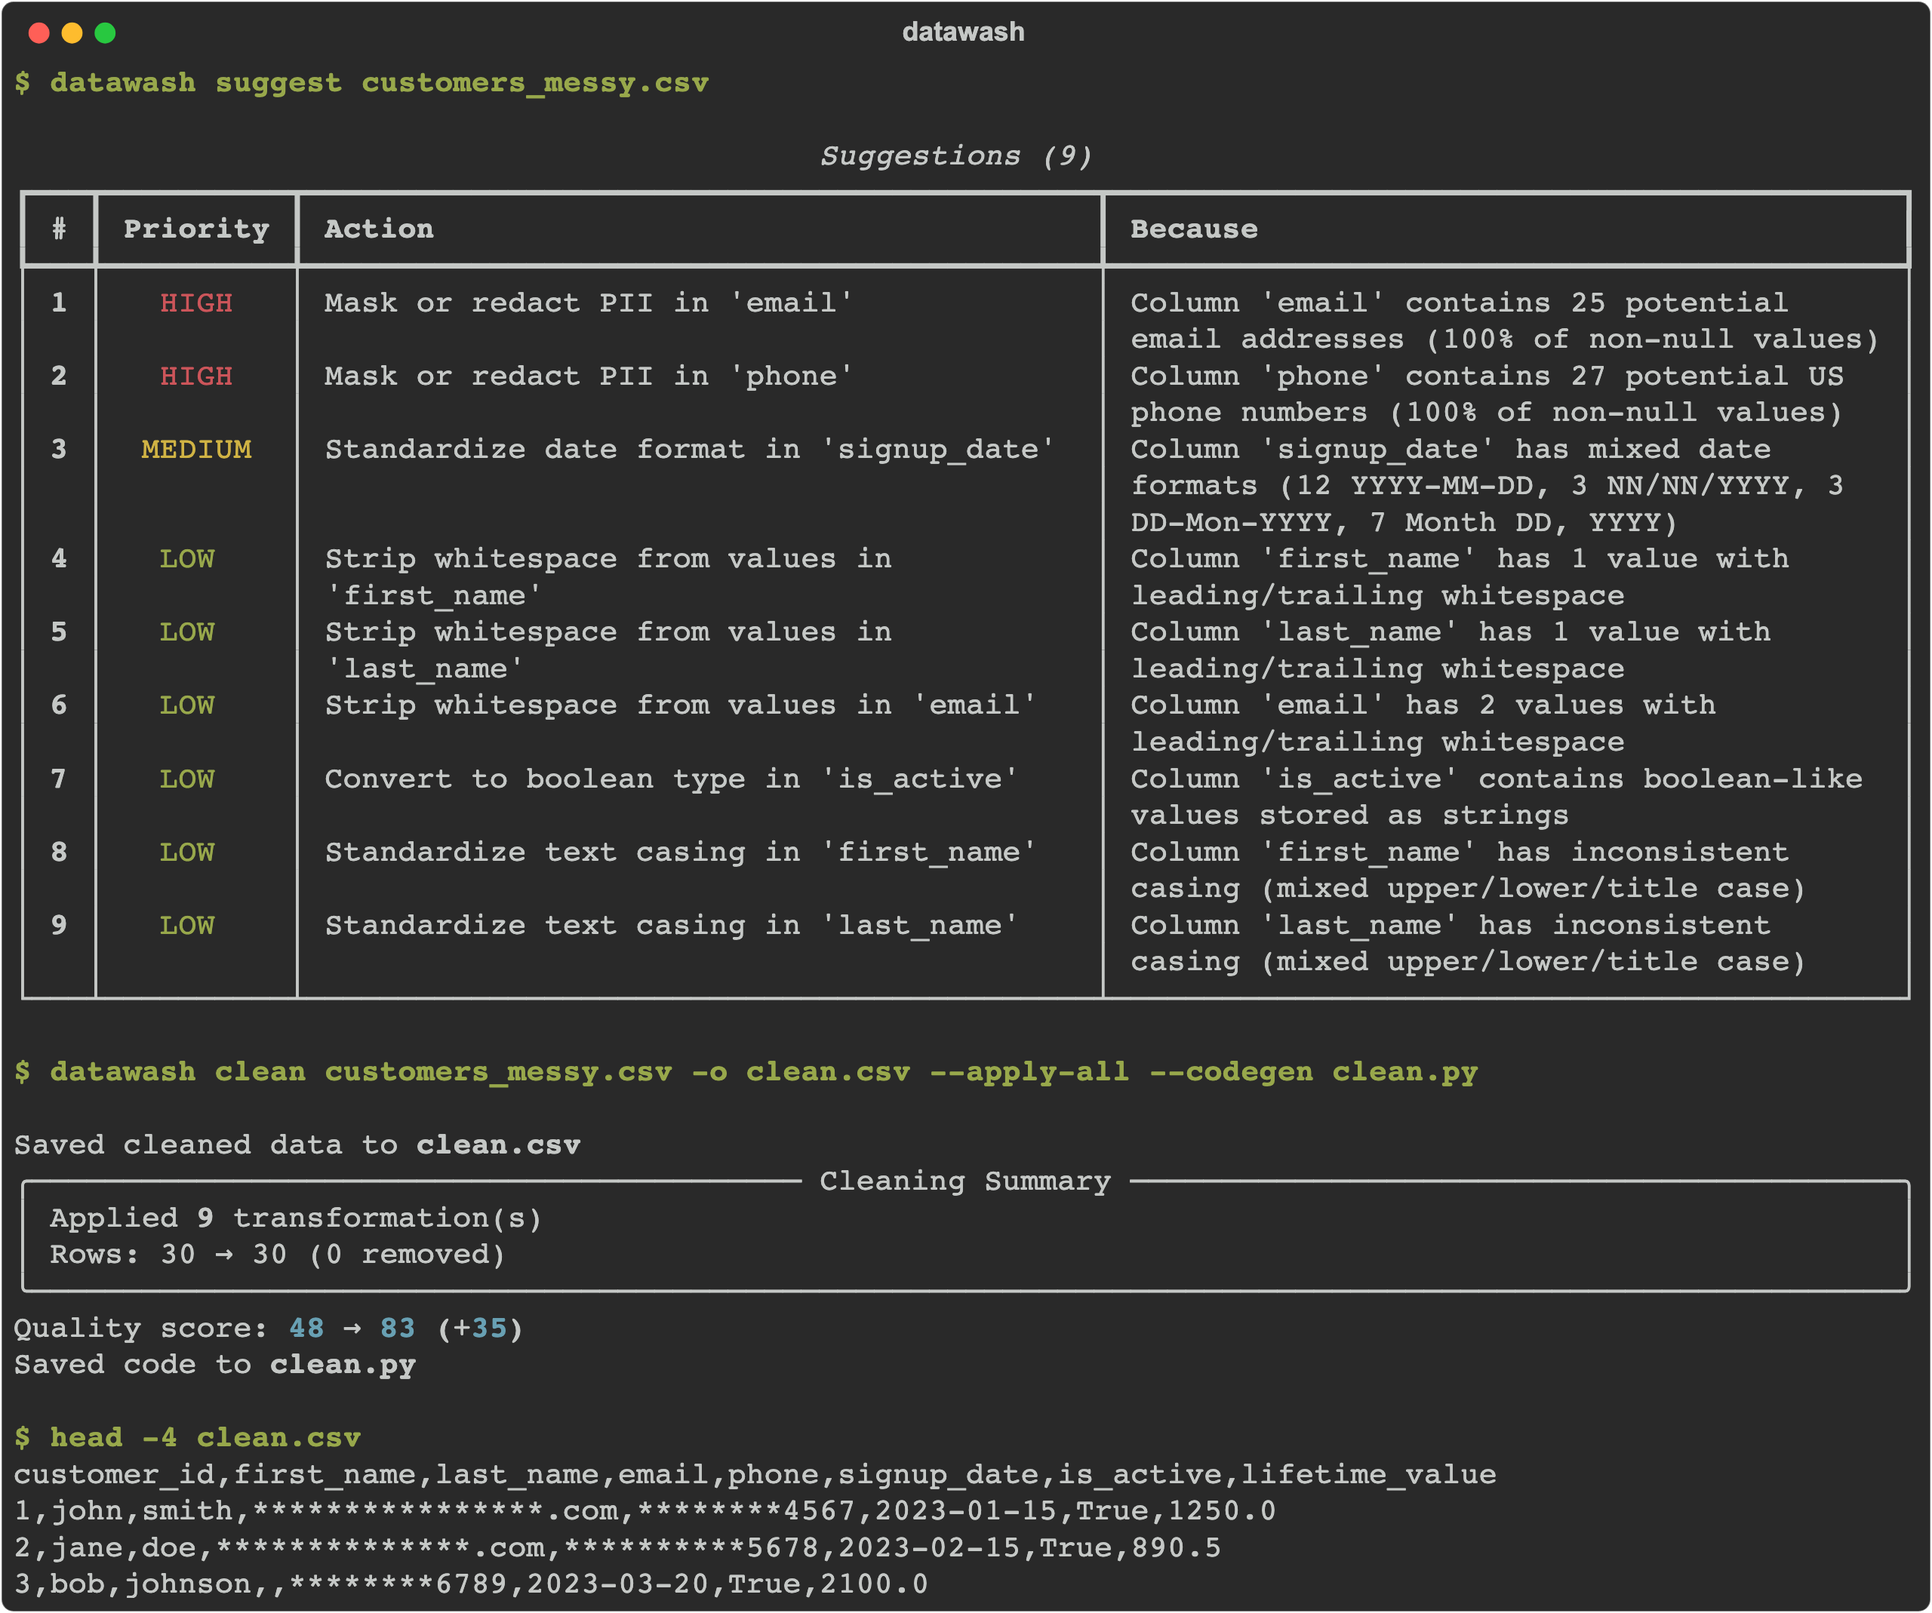
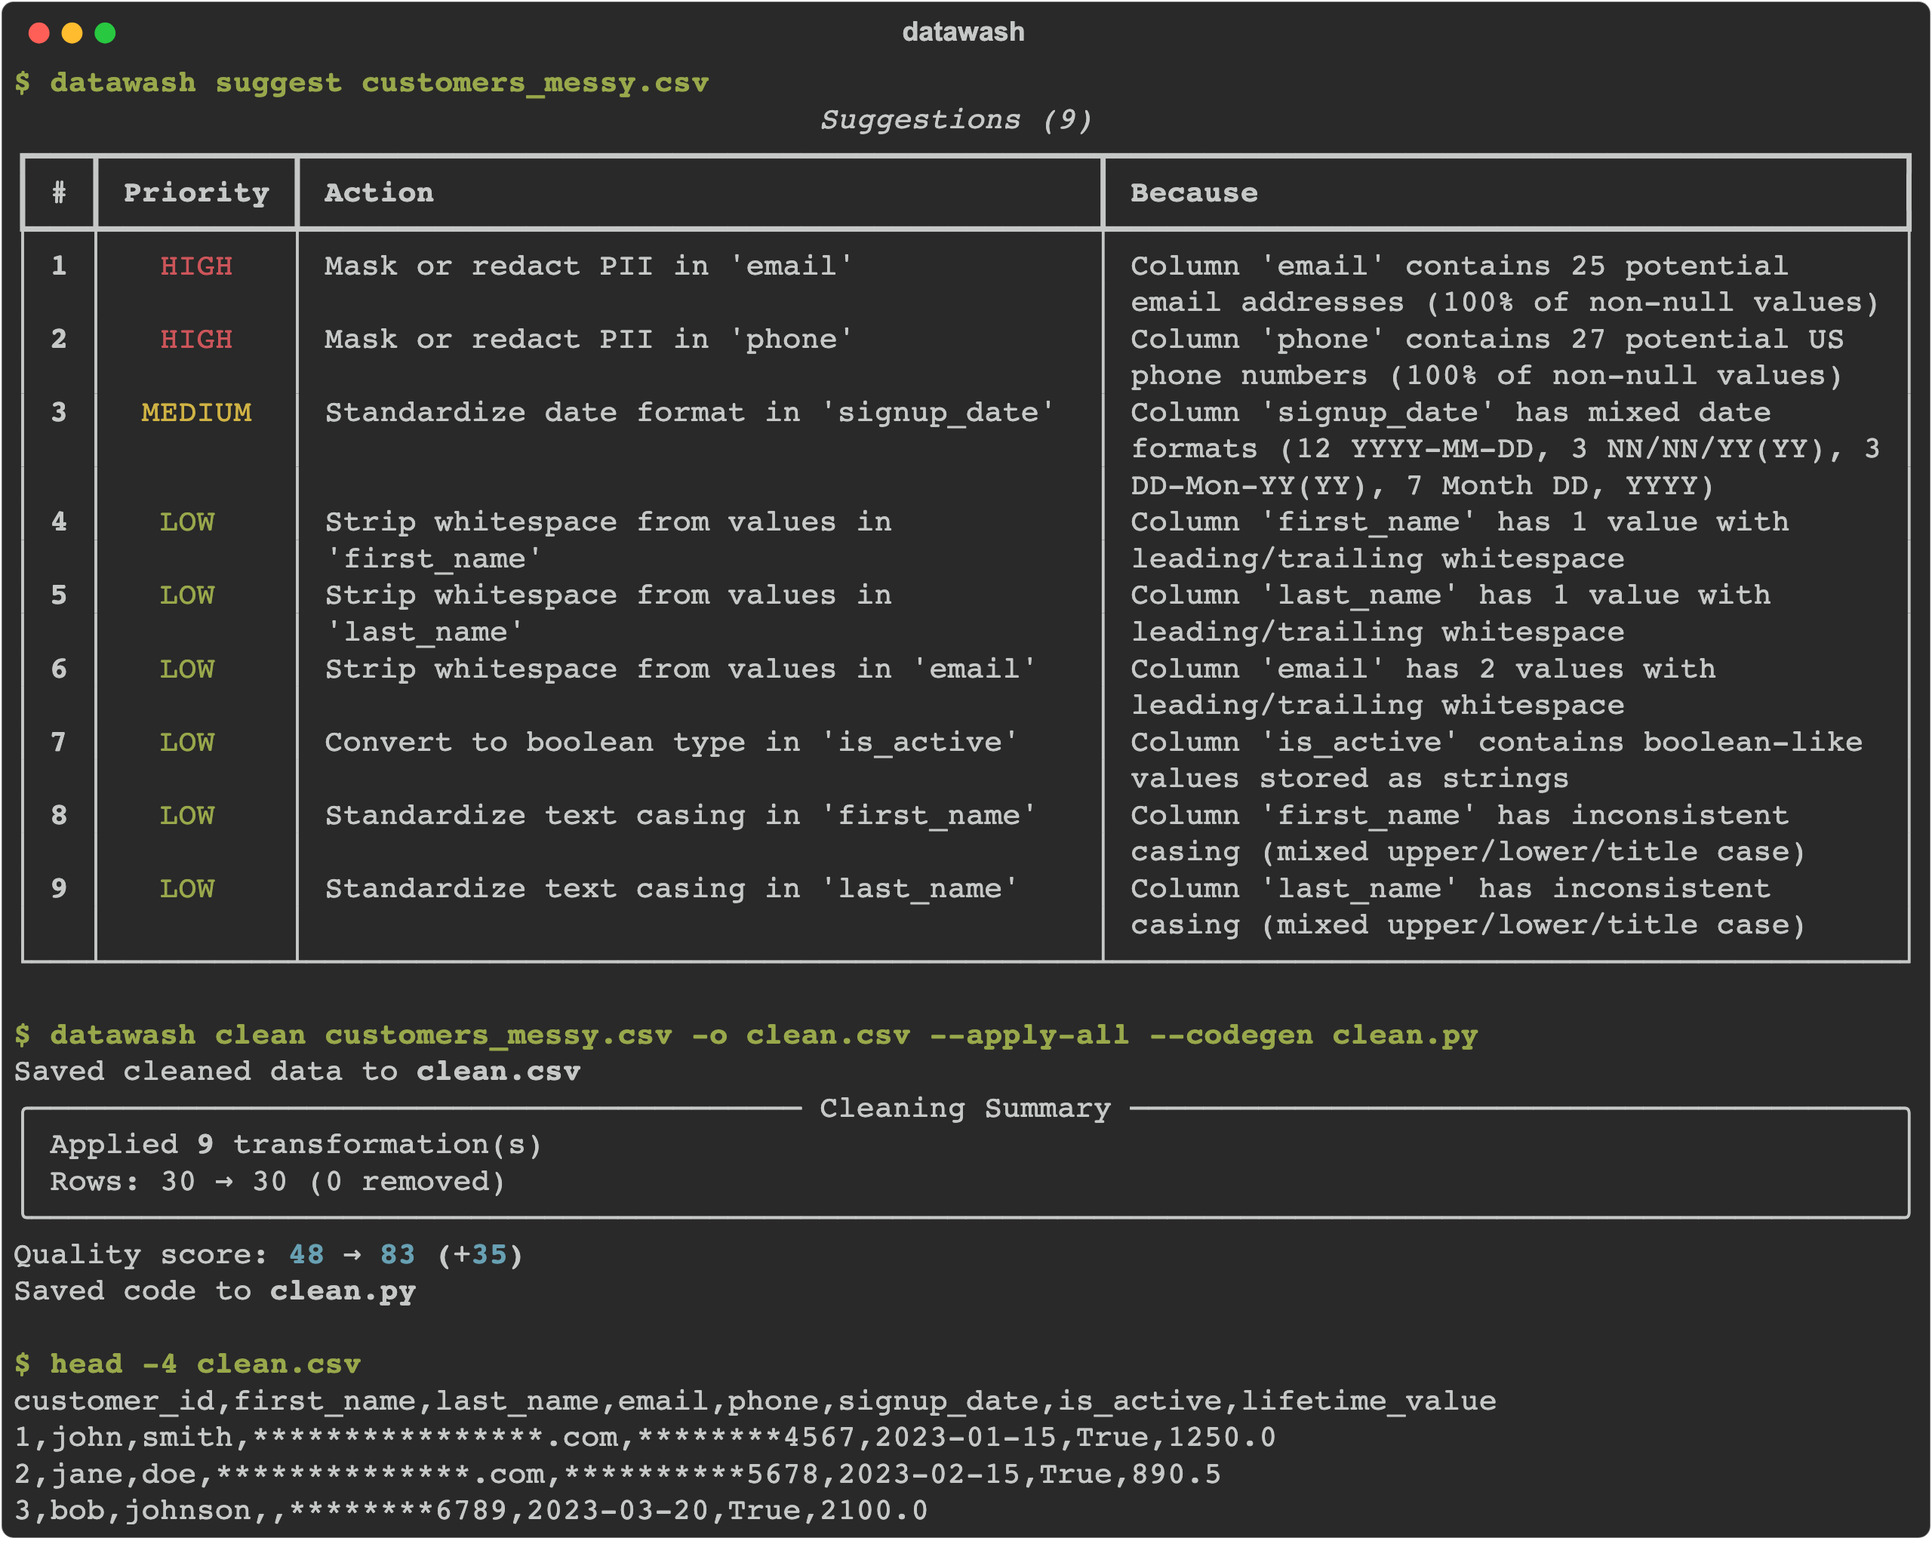
Review fixes: mask PII before type conversion, keep fills for name-like columns
- PII masking now runs after strip, case and fills but before type and
  date conversion, so masking no longer str()s a typed column.
- Columns flagged only by a name-like column name (e.g. product_name) keep
  their fill suggestions unless --mask-names is on.
- The unknown-ID hint mentions --mask-names; analyze accepts the old
  --sample/--verbose flags as hidden no-ops so scripts keep working.
- Date labels show two- or four-digit years; format_bytes rounds before
  picking a unit (1048570 bytes is 1.0 MB).

diff --git a/src/datawash/suggestors/engine.py b/src/datawash/suggestors/engine.py
@@ -29,18 +29,19 @@ TRANSFORMATION_ORDER: list[tuple[str, str]] = [
     ("missing", "fill_median"),
     ("missing", "fill_value"),
     ("missing", "empty_to_nan"),  # legacy, prefer clean_empty_strings
+    # Phase 3.5: PII handling, after the text it masks is cleaned and filled
+    # but before type conversion (masking calls str() on every value)
+    ("pii", "redact"),
+    ("pii", "mask"),
+    ("pii", "hash"),
+    ("pii", "generalize"),
     # Phase 4: Type conversion (after all string cleaning done)
     ("types", "boolean"),
     ("types", "numeric"),
     ("formats", "standardize_dates"),
     # Phase 5: Outlier handling (after types are correct)
     ("missing", "clip_outliers"),
-    # Phase 6: PII handling, after the values it masks are cleaned and filled
-    ("pii", "redact"),
-    ("pii", "mask"),
-    ("pii", "hash"),
-    ("pii", "generalize"),
-    # Phase 7: Column operations (last)
+    # Phase 6: Column operations (last)
     ("columns", "drop"),
     ("columns", "rename"),
     ("columns", "review_merge"),
@@ -382,13 +383,17 @@ def generate_suggestions(
 ) -> list[Suggestion]:
     """Generate prioritized suggestions from findings.
 
-    PII columns are never filled: a filled email or name would be another
-    person's data. Masking columns that are PII only because of a name-like
-    column name (e.g. 'customer_name') happens only when mask_names is True.
+    PII columns are never filled: a filled email or phone would be another
+    person's data. Columns that are PII only because of a name-like column
+    name (e.g. 'customer_name', but also 'product_name') are treated as PII,
+    masked and left unfilled, only when mask_names is True.
     """
     boosts = _USE_CASE_BOOSTS.get(use_case, {})
     pii_columns = {
-        col for f in findings if f.issue_type == "pii_detected" for col in f.columns
+        col
+        for f in findings
+        if f.issue_type == "pii_detected" and (mask_names or not _is_name_pii(f))
+        for col in f.columns
     }
     suggestions: list[Suggestion] = []
     for finding in findings:

diff --git a/tests/test_suggestors.py b/tests/test_suggestors.py
@@ -251,9 +251,6 @@ def test_pii_empty_strings_become_missing_without_fill() -> None:
         ("missing", {"strategy": "fill_mode"}),
         ("missing", {"strategy": "fill_median"}),
         ("missing", {"strategy": "clean_empty_strings"}),
-        ("types", {"target_type": "boolean"}),
-        ("formats", {"operation": "standardize_dates"}),
-        ("missing", {"strategy": "clip_outliers"}),
     ],
 )
 @pytest.mark.parametrize("pii_op", ["mask", "hash", "redact", "generalize"])
@@ -264,6 +261,33 @@ def test_pii_runs_after_value_cleaning(earlier: tuple, pii_op: str) -> None:
     assert _get_transform_order("pii", {"operation": pii_op}) > _get_transform_order(
         transformer, params
     )
+
+
+@pytest.mark.parametrize(
+    "later",
+    [
+        ("types", {"target_type": "boolean"}),
+        ("types", {"target_type": "numeric"}),
+        ("formats", {"operation": "standardize_dates"}),
+        ("missing", {"strategy": "clip_outliers"}),
+    ],
+)
+def test_pii_runs_before_type_conversion(later: tuple) -> None:
+    """Masking str()s every value, so it must not undo typed columns."""
+    from datawash.suggestors.engine import _get_transform_order
+
+    transformer, params = later
+    assert _get_transform_order("pii", {"operation": "mask"}) < _get_transform_order(
+        transformer, params
+    )
+
+
+def test_name_like_column_is_still_filled_without_mask_names() -> None:
+    df = pd.DataFrame({"product_name": ["Lamp", None, "Desk", "Lamp", "Chair"]})
+    fills = [s for s in _suggest(df) if s.transformer == "missing"]
+    assert [s.params["strategy"] for s in fills] == ["fill_mode"]
+    with_names = _suggest(df, mask_names=True)
+    assert not [s for s in with_names if s.transformer == "missing"]
 
 
 @pytest.mark.parametrize("mask_names", [False, True])

diff --git a/src/datawash/cli/main.py b/src/datawash/cli/main.py
@@ -66,7 +66,7 @@ def _check_ids(ids: list[int], report: Report) -> None:
         hint = "This file has no suggestions"
     _fail(
         f"Unknown suggestion ID(s): {listed}. {hint}; "
-        "see 'datawash suggest' with the same --use-case."
+        "see 'datawash suggest' with the same --use-case and --mask-names."
     )
 
 
@@ -85,6 +85,9 @@ def analyze(
         "general", "--use-case", "-u", help="Context: general, ml, analytics, export"
     ),
     mask_names: bool = typer.Option(False, "--mask-names", help=_MASK_NAMES_HELP),
+    # Deprecated: accepted so existing scripts keep working; they never had an effect
+    sample: Optional[int] = typer.Option(None, "--sample", "-s", hidden=True),
+    verbose: bool = typer.Option(False, "--verbose", "-v", hidden=True),
 ) -> None:
     """Analyze a dataset and show quality report."""
     from datawash.cli.formatters import (

diff --git a/tests/test_cli.py b/tests/test_cli.py
@@ -256,6 +256,11 @@ def test_codegen_stdout_script_style_with_brackets(tmp_path: Path) -> None:
     compile(result.output, "generated.py", "exec")
 
 
+def test_analyze_accepts_deprecated_flags(csv_file: Path) -> None:
+    result = runner.invoke(app, ["analyze", str(csv_file), "-v", "--sample", "10"])
+    assert result.exit_code == 0
+
+
 def test_analyze_shows_quality_score(csv_file: Path) -> None:
     result = runner.invoke(app, ["analyze", str(csv_file)])
     assert result.exit_code == 0

diff --git a/src/datawash/detectors/format_detector.py b/src/datawash/detectors/format_detector.py
@@ -81,8 +81,8 @@ class FormatDetector(BaseDetector):
     # How each pattern reads in messages; NN/NN is day- or month-first
     _DATE_LABELS: dict[str, str] = {
         "iso": "YYYY-MM-DD",
-        "slash_mdy": "NN/NN/YYYY",
-        "dash_dmy": "DD-Mon-YYYY",
+        "slash_mdy": "NN/NN/YY(YY)",
+        "dash_dmy": "DD-Mon-YY(YY)",
         "named_mdy": "Month DD, YYYY",
         "named_dmy": "DD Month YYYY",
     }

diff --git a/tests/test_detectors.py b/tests/test_detectors.py
@@ -222,7 +222,7 @@ def test_mixed_date_message_uses_readable_formats() -> None:
     message = next(
         f.message for f in findings if f.issue_type == "inconsistent_date_format"
     )
-    assert "3 YYYY-MM-DD, 1 NN/NN/YYYY, 1 Month DD, YYYY" in message
+    assert "3 YYYY-MM-DD, 1 NN/NN/YY(YY), 1 Month DD, YYYY" in message
     assert "slash_mdy" not in message
 
 

diff --git a/src/datawash/core/dtypes.py b/src/datawash/core/dtypes.py
@@ -28,7 +28,7 @@ def format_bytes(n: int) -> str:
     """Human-readable size: '3.3 KB', not '0.0 MB'."""
     size = float(n)
     for unit in ("B", "KB", "MB"):
-        if size < 1024:
+        if round(size, 1) < 1024:
             return f"{size:.0f} B" if unit == "B" else f"{size:.1f} {unit}"
         size /= 1024
     return f"{size:.1f} GB"

diff --git a/tests/test_dtypes.py b/tests/test_dtypes.py
@@ -71,6 +71,7 @@ class TestOptimizeDataframe:
     [
         (502, "502 B"),
         (3379, "3.3 KB"),
+        (1048570, "1.0 MB"),
         (5 * 1024 * 1024, "5.0 MB"),
         (3 * 1024**3, "3.0 GB"),
     ],

diff --git a/README.md b/README.md
@@ -15,7 +15,7 @@
 <p align="center">
   <img src="https://img.shields.io/badge/version-1.1.0-blue" alt="Version 1.1.0">
   <img src="https://img.shields.io/badge/python-3.10%20%7C%203.11%20%7C%203.12-blue" alt="Python">
-  <img src="https://img.shields.io/badge/tests-297%20passed%2C%2026%20skipped-brightgreen" alt="Tests">
+  <img src="https://img.shields.io/badge/tests-292%20passed%2C%2026%20skipped-brightgreen" alt="Tests">
   <img src="https://img.shields.io/badge/coverage-82%25-green" alt="Coverage">
   <img src="https://img.shields.io/badge/license-MIT-green" alt="License">
 </p>
@@ -145,8 +145,8 @@ file / DataFrame
                            (PII dedupe, conflict exclusion, use-case boost)
 Report.apply(ids)
   └─ suggestions sorted into execution phases, run on the FULL DataFrame:
-     1 duplicates / drop rows → 2 strip + case → 3 fills → 4 type conversion
-     → 5 outlier clipping → 6 PII masking → 7 column operations
+     1 duplicates / drop rows → 2 strip + case → 3 fills → 4 PII masking
+     → 5 type conversion + dates → 6 outlier clipping → 7 column operations
        └─ each transformer returns (new DataFrame, TransformationResult with code)
             ├─ codegen: concatenates the code into clean_data(df) or a script
             └─ re-analysis of the result ──> score after
@@ -171,11 +171,14 @@ with penalties of 10 (high), 5 (medium) and 2 (low), clamped to 0–100
 - **PII handling.** Detection is regex plus column-name heuristics, so expect
   misses and false positives. Masking keeps the last 4 characters (`****.com`),
   which reduces exposure but is not anonymization; use `hash` or `redact` when
-  that matters. Masking runs after other fixes so it masks cleaned values. PII
+  that matters. Masking runs after strip, case and fill fixes, so it masks the
+  cleaned text, and before type conversion, so typed columns stay typed. PII
   columns are never filled from other rows (that would copy one person's email
-  onto another), and empty strings in them become missing. Columns that are PII
-  only because of a name-like column name (`name`, `first_name`, …) are masked
-  only with `--mask-names` / `config={"suggestions": {"mask_names": True}}`.
+  onto another), and empty strings in them become missing. Columns that are
+  PII only because their name contains `name` are treated as PII (masked and
+  left unfilled) only with `--mask-names` /
+  `config={"suggestions": {"mask_names": True}}`. That match is a substring,
+  so `product_name` counts too.
 - **Suggestion IDs are positions in a ranked list.** They change with
   `--use-case` and `--mask-names`, so pass the same flags to `suggest` and
   `clean`.
@@ -264,7 +267,7 @@ report = analyze(
 | Metric | Value | Command |
 |--------|-------|---------|
 | Version | 1.1.0 | `pyproject.toml` |
-| Tests | 297 passed, 26 skipped (ML deps not installed) | `pytest` |
+| Tests | 292 passed, 26 skipped (ML deps not installed) | `pytest` |
 | Coverage | 82% of `src/datawash` | `pytest --cov=datawash` on a `[dev]` install |
 | Python | 3.10, 3.11, 3.12 | |
 
@@ -285,7 +288,7 @@ git clone https://github.com/Pranav1011/DataWash.git
 cd DataWash
 pip install -e ".[dev]"
 
-pytest                       # 297 passed, 26 skipped
+pytest                       # 292 passed, 26 skipped
 pytest --cov=datawash        # 82%
 black src tests
 ruff check src tests

diff --git a/CHANGELOG.md b/CHANGELOG.md
@@ -14,10 +14,10 @@ The format is based on [Keep a Changelog](https://keepachangelog.com/).
 
 ### Fixed
 - `datawash codegen` printed generated code as Rich markup and crashed with `MarkupError` on code containing brackets such as `[/.-]`; it now prints plain text, which also stops long lines being wrapped.
-- PII masking ran before whitespace, case and fill fixes, so padded names were masked with their padding and missing emails were filled with already-masked values. Masking now runs after all value fixes, PII columns are never filled from other rows, and empty strings in them become missing.
+- PII masking ran before whitespace, case and fill fixes, so padded names were masked with their padding and missing emails were filled with already-masked values. Masking now runs after strip, case and fill fixes (and before type conversion), PII columns are never filled from other rows, and empty strings in them become missing.
 - `clean` and `codegen` exit with code 1 on suggestion IDs that do not exist (e.g. `--apply 999`) instead of writing unchanged output; generated code always defines `clean_data()`.
 - The example CSVs quote dates that contain commas, so `csv_cleaning.py` and `ml_preprocessing.py` run again; example docstrings use `--apply` (there is no `--ids` flag).
-- Whitespace findings count padded values once, not once per side; messages use "1 missing value", readable date formats (`NN/NN/YYYY` instead of `slash_mdy`) and B/KB/MB sizes.
+- Whitespace findings count padded values once, not once per side; messages use "1 missing value", readable date formats (`NN/NN/YY(YY)` instead of `slash_mdy`) and B/KB/MB sizes.
 - Date standardization now parses mixed formats (e.g. `2024-01-15`, `01/20/2024`, `Jan 30, 2024`) on pandas 2 and 3; previously only values matching the first format were converted. Numeric dates such as `03/04/2024` are read day-first or month-first per column, based on values that can only be read one way; when a column has no such evidence or both kinds, those dates are left unchanged and reported as a warning. Generated code uses the same parsing, and "rows affected" counts only values that changed.
 - CLI errors for missing, empty, unsupported or binary files and non-numeric `--apply` IDs now print one red line with a fix and exit with code 1, instead of a traceback.
 

diff --git a/docs/cli-reference.md b/docs/cli-reference.md
@@ -76,8 +76,8 @@ Output (trimmed):
 │   │          │                                         │ email addresses (100% of non-null       │
 │   │          │                                         │ values)                                 │
 │ 3 │  MEDIUM  │ Standardize date format in              │ Column 'signup_date' has mixed date     │
-│   │          │ 'signup_date'                           │ formats (12 YYYY-MM-DD, 3 NN/NN/YYYY, 3 │
-│   │          │                                         │ DD-Mon-YYYY, 7 Month DD, YYYY)          │
+│   │          │ 'signup_date'                           │ formats (12 YYYY-MM-DD, 3 NN/NN/YY(YY), │
+│   │          │                                         │ 3 DD-Mon-YY(YY), 7 Month DD, YYYY)      │
 │ 4 │   LOW    │ Strip whitespace from values in         │ Column 'first_name' has 1 value with    │
 │   │          │ 'first_name'                            │ leading/trailing whitespace             │
 ```
@@ -122,7 +122,7 @@ written:
 
 ```
 $ datawash clean data.csv -o clean.csv --apply 99
-Unknown suggestion ID(s): 99. Valid IDs are 1-9; see 'datawash suggest' with the same --use-case.
+Unknown suggestion ID(s): 99. Valid IDs are 1-9; see 'datawash suggest' with the same --use-case and --mask-names.
 ```
 
 ---

diff --git a/CLAIMS.md b/CLAIMS.md
@@ -7,6 +7,6 @@ Each README claim, the evidence for it and how to reproduce it.
 | Published open-source Python library for data-quality profiling + cleaning | VERIFIED (1.0.0 on PyPI; 1.1.0, which adds `[ml]`, not yet published) | pypi.org/project/datawash; `pyproject.toml` | `pip install datawash` | 2026-11-11 |
 | Profiling + cleaning (7 detectors + opt-in fuzzy duplicates, 7 transformers, quality score, code generation) | VERIFIED | `src/datawash/{detectors,transformers,profiler,codegen}/` | `datawash clean examples/sample_data/customers_messy.csv -o clean.csv --apply-all --codegen clean.py` | 2026-11-11 |
 | Quality score 48 → 83 on `customers_messy.csv`; generated code reproduces `clean.csv` | VERIFIED | `tests/test_cli.py` (codegen replay tests) | command above, then run `clean.py` | 2026-11-11 |
-| 297 tests pass, 26 skipped (ML dependencies not installed) | VERIFIED | `tests/` | `pytest` | 2026-11-11 |
+| 292 tests pass, 26 skipped (ML dependencies not installed) | VERIFIED | `tests/` | `pytest` | 2026-11-11 |
 | 82% line coverage | VERIFIED | — | `pytest --cov=datawash` on a `[dev]` install | 2026-11-11 |
 | Performance table (e.g. 1M x 10 in 1.10s on an M3 Pro) | VERIFIED | `tests/benchmark_readme.py` | `python tests/benchmark_readme.py` | 2026-11-11 |
